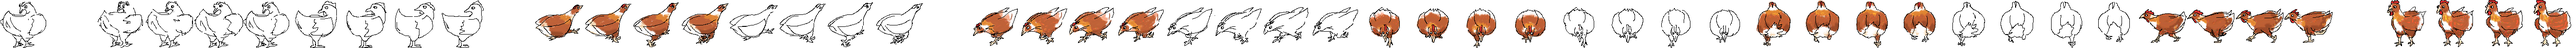
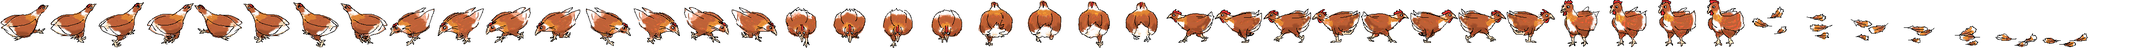
Fix up animations for player model

diff --git a/lib/src/resources/animation_manifests.dart b/lib/src/resources/animation_manifests.dart
@@ -1,23 +1,67 @@
 import 'package:calamity/src/resources/animation_resource.dart';
 
+import '../math/direction.dart';
 import '../math/static.dart';
+import '../math/vector2.dart';
 import 'animation_frame.dart';
 
 class PlayerAnimationManifest {
   final GetterT<AnimationResource> _resourceGetter;
+  late final Animation moveTopLeft;
   late final Animation moveTopRight;
   late final Animation moveBottomLeft;
+  late final Animation moveBottomRight;
   late final Animation moveBottom;
   late final Animation moveTop;
   late final Animation moveLeft;
+  late final Animation moveRight;
   late final Animation idle;
+  late final Animation featherFall;
 
   PlayerAnimationManifest(this._resourceGetter) {
-    moveTopRight = new Animation(_resourceGetter, [11, 12, 13, 14]);
-    moveBottomLeft = new Animation(_resourceGetter, [20, 21, 22, 23]);
-    moveBottom = new Animation(_resourceGetter, [28, 29, 30, 31]);
-    moveTop = new Animation(_resourceGetter, [36, 37, 38, 39]);
-    moveLeft = new Animation(_resourceGetter, [44, 45, 46, 47]);
-    idle = new Animation(_resourceGetter, [49, 50, 51, 52]);
+    moveTopRight = new Animation(_resourceGetter, [0, 1, 2, 3]);
+    moveTopLeft = new Animation(_resourceGetter, [4, 5, 6, 7]);
+    moveBottomLeft = new Animation(_resourceGetter, [8, 9, 10, 11]);
+    moveBottomRight = new Animation(_resourceGetter, [12, 13, 14, 15]);
+    moveBottom = new Animation(_resourceGetter, [16, 17, 18, 19]);
+    moveTop = new Animation(_resourceGetter, [20, 21, 22, 23]);
+    moveLeft = new Animation(_resourceGetter, [24, 25, 26, 27]);
+    moveRight = new Animation(_resourceGetter, [28, 29, 30, 31]);
+    idle = new Animation(_resourceGetter, [32, 33, 34, 35]);
+    featherFall = new Animation(_resourceGetter, [36, 37, 38, 39, 40, 41, 42]);
+  }
+
+  AnimationInstance newAnimationFromDirection(Direction? dir, Vector2 pos, Vector2 size, num timeStep) {
+    Animation animation;
+    switch (dir) {
+      case Direction.RIGHT:
+        animation = moveRight;
+        break;
+      case Direction.BOTTOMRIGHT:
+        animation = moveBottomRight;
+        break;
+      case Direction.BOTTOM:
+        animation = moveBottom;
+        break;
+      case Direction.BOTTOMLEFT:
+        animation = moveBottomLeft;
+        break;
+      case Direction.LEFT:
+        animation = moveLeft;
+        break;
+      case Direction.TOPLEFT:
+        animation = moveTopLeft;
+        break;
+      case Direction.TOP:
+        animation = moveTop;
+        break;
+      case Direction.TOPRIGHT:
+        animation = moveTopRight;
+        break;
+      case null:
+        animation = idle;
+        break;
+    }
+    return new AnimationInstance(animation, pos, size, timeStep);
   }
 }

diff --git a/lib/src/scene/player.dart b/lib/src/scene/player.dart
@@ -9,6 +9,7 @@ import 'package:calamity/src/scene/game_object.dart';
 
 import '../constants.dart';
 import '../inputs/input_state.dart';
+import '../math/direction.dart';
 import '../math/segment.dart';
 import '../math/vector2.dart';
 import '../render/renderer.dart';
@@ -25,6 +26,8 @@ class Player extends GameObject {
   num movementSpeed = Constants.PLAYER_MOVE_SPEED;
   Vector2 pos;
   Vector2 size = new Vector2(50, 50);
+  Direction? oldDirection;
+  Direction? currentDirection;
 
   LineSeg? path;
   Player(this.pos) {
@@ -32,7 +35,7 @@ class Player extends GameObject {
   }
 
   void reset() {
-    currentAnimation = new AnimationInstance(animations.idle, pos, size, false, false, 100.0);
+    currentAnimation = new AnimationInstance(animations.idle, pos, size, Constants.PLAYER_ANIM_TIMESTEP);
     pos = Constants.PLAYER_SPAWN;
     path = null;
     resetCooldowns();
@@ -56,6 +59,7 @@ class Player extends GameObject {
 
     if (path != null) {
       Vector2 newPos = path!.dir() * speed * deltaTime * 0.001;
+      _updateDirection(newPos);
       num ratio = path!.ratioOnSeg(pos);
       if (ratio < 1.0) {
         pos += newPos;
@@ -73,8 +77,9 @@ class Player extends GameObject {
     if (input.keys.contains(PlayerKey.RIGHT)) { x += 1; }
     if (input.keys.contains(PlayerKey.UP)) { y -= 1; }
     if (input.keys.contains(PlayerKey.DOWN)) { y += 1; }
-    pos += new Vector2(x, y).normalized() * speed * deltaTime * 0.001;
-
+    Vector2 delta = new Vector2(x, y).normalized() * speed * deltaTime * 0.001;
+    _updateDirection(delta);
+    pos += delta;
   }
 
   /// limit the player so they don't move outside the bounds
@@ -93,6 +98,10 @@ class Player extends GameObject {
     }
   }
 
+  void _updateDirection(Vector2 dir) {
+    oldDirection = currentDirection;
+    currentDirection = directionFromVec(dir);
+  }
 
   @override
   void update(PlayerInputState input, num deltaTime) {
@@ -108,7 +117,9 @@ class Player extends GameObject {
 
   @override
   void render(Renderer r) {
-    print("${currentAnimation.animation.frames}");
+    if (currentDirection != oldDirection) {
+      currentAnimation = animations.newAnimationFromDirection(currentDirection, pos, size, Constants.PLAYER_ANIM_TIMESTEP);
+    }
     currentAnimation.pos = pos;
     r.renderAnimation(currentAnimation);
   }

diff --git a/lib/src/math/direction.dart b/lib/src/math/direction.dart
@@ -1,3 +1,5 @@
+import 'package:calamity/src/math/vector2.dart';
+
 enum Direction {
   RIGHT,
   BOTTOMRIGHT,
@@ -7,6 +9,21 @@ enum Direction {
   TOPLEFT,
   TOP,
   TOPRIGHT,
+}
+
+Direction? directionFromVec(Vector2 dir) {
+  final double directionThres = 0.4;
+  if (dir.length2() == 0) {
+    return null;
+  }
+  dir = dir.normalized();
+
+  if (dir.x.abs() < directionThres) {
+    return dir.y > 0 ? Direction.BOTTOM : Direction.TOP;
+  }
+
+  int dirY = dir.y > directionThres ? 1 : dir.y > - directionThres ? 0 : -1;
+  return directionFromInt(dir.x > 0 ? 8 + dirY : 4 - dirY);
 }
 
 Direction directionFromInt(int dir) {
@@ -48,5 +65,14 @@ int intFromDirection(Direction dir) {
     return 6;
   case Direction.TOPRIGHT:
     return 7;
+  }
+}
+
+void testDirs() {
+  for (int dx = -1; dx < 2; ++dx) {
+    for (int dy = -1; dy < 2; ++dy) {
+      Vector2 v = new Vector2(dx, dy);
+      print("${v.x} ${v.y} ${directionFromVec(v)}");
+    }
   }
 }

diff --git a/lib/src/resources/resources.dart b/lib/src/resources/resources.dart
@@ -32,7 +32,7 @@ class Resources {
     // TODO: Maybe request all of these in parallel? Would be trivial, would just require us to
     // await them all simultaneously
     _resources[ENEMY] = await ImageResource.load('enemy.png');
-    _resources[PLAYER_ANIMATION] = await AnimationResource.load('player_animation.png', 100, 100, 53);
+    _resources[PLAYER_ANIMATION] = await AnimationResource.load('player_animation.png', 100, 100, 44);
     _resources[BOULDER] = await ImageResource.load('boulder.png');
     _resources[BACKGROUND] = await ImageResource.load('background.png');
     _resources[MUSIC] = await AudioResource.load('Repeat_mixdown 3_01.mp3');

diff --git a/lib/src/render/renderer.dart b/lib/src/render/renderer.dart
@@ -66,8 +66,9 @@ class Renderer {
   }
 
   void renderAnimation(AnimationInstance animation) {
-    print("Rendering frame ${animation.currentFrame()}");
-    animation.animation.resourceGetter().renderFrame(ctx, animation.currentFrame(), animation.pos - (animation.size / 2), animation.size);
+    AnimationResource resource = animation.animation.resourceGetter();
+    int currentFrame = animation.currentFrame();
+    resource.renderFrame(ctx, animation.currentFrame(), animation.pos - (animation.size / 2), animation.size);
   }
 
   void renderAnimationFrame(Vector2 pos, Vector2 size, AnimationResource resource, int index) {

diff --git a/lib/src/resources/animation_resource.dart b/lib/src/resources/animation_resource.dart
@@ -26,7 +26,7 @@ class AnimationResource implements Resource {
   /// invariant: render functions can change the ctx arbitrarily such as ctx.rotate
   /// but must restore the ctx back to the initial state at the end
   void renderFrame(CanvasRenderingContext2D ctx, int index, Vector2 pos, Vector2 size,
-      {double rotation: 0.0}) {
+      {double rotation: 0.0, bool flipX: false, bool flipY: false}) {
     int srcR = index ~/ frameCols;
     int srcC = index % frameCols;
     int srcX = srcC * frameWidth;

diff --git a/lib/calamity.dart b/lib/calamity.dart
@@ -5,6 +5,7 @@ library calamity;
 
 import 'package:calamity/src/inputs/input_state.dart';
 import 'package:calamity/src/main_ctx.dart';
+import 'package:calamity/src/math/direction.dart';
 import 'dart:html';
 
 import 'package:calamity/src/resources/image_resource.dart';
@@ -41,7 +42,6 @@ Future<void> clientMain() async {
 MainCtx setupMainCtx() {
   CanvasElement canvas;
   late MainCtx mainctx;
-
 
   DivElement div = Div([
     // Div([

diff --git a/lib/src/resources/animation_frame.dart b/lib/src/resources/animation_frame.dart
@@ -15,12 +15,10 @@ class AnimationInstance {
   Animation animation;
   Vector2 pos;
   Vector2 size;
-  bool flipX; 
-  bool flipY; 
   final num timeStep;
   num elapsed = 0;
 
-  AnimationInstance(this.animation, this.pos, this.size, this.flipX, this.flipY, this.timeStep);
+  AnimationInstance(this.animation, this.pos, this.size, this.timeStep);
 
   void updateElapsed(num delta) => elapsed += delta;
 

diff --git a/lib/src/constants.dart b/lib/src/constants.dart
@@ -19,6 +19,7 @@ class Constants {
   static final num PLAYER_MOVE_SPEED = 210;
   static final num PLAYER_BOOST_CD = 3 * 1000;
   static final num PLAYER_BOOST = 50;
+  static final num PLAYER_ANIM_TIMESTEP = 100;
   static final Vector2 PLAYER_SPAWN = new Vector2(400, 300);
 
   static final int NUM_CHICKS = 3;
